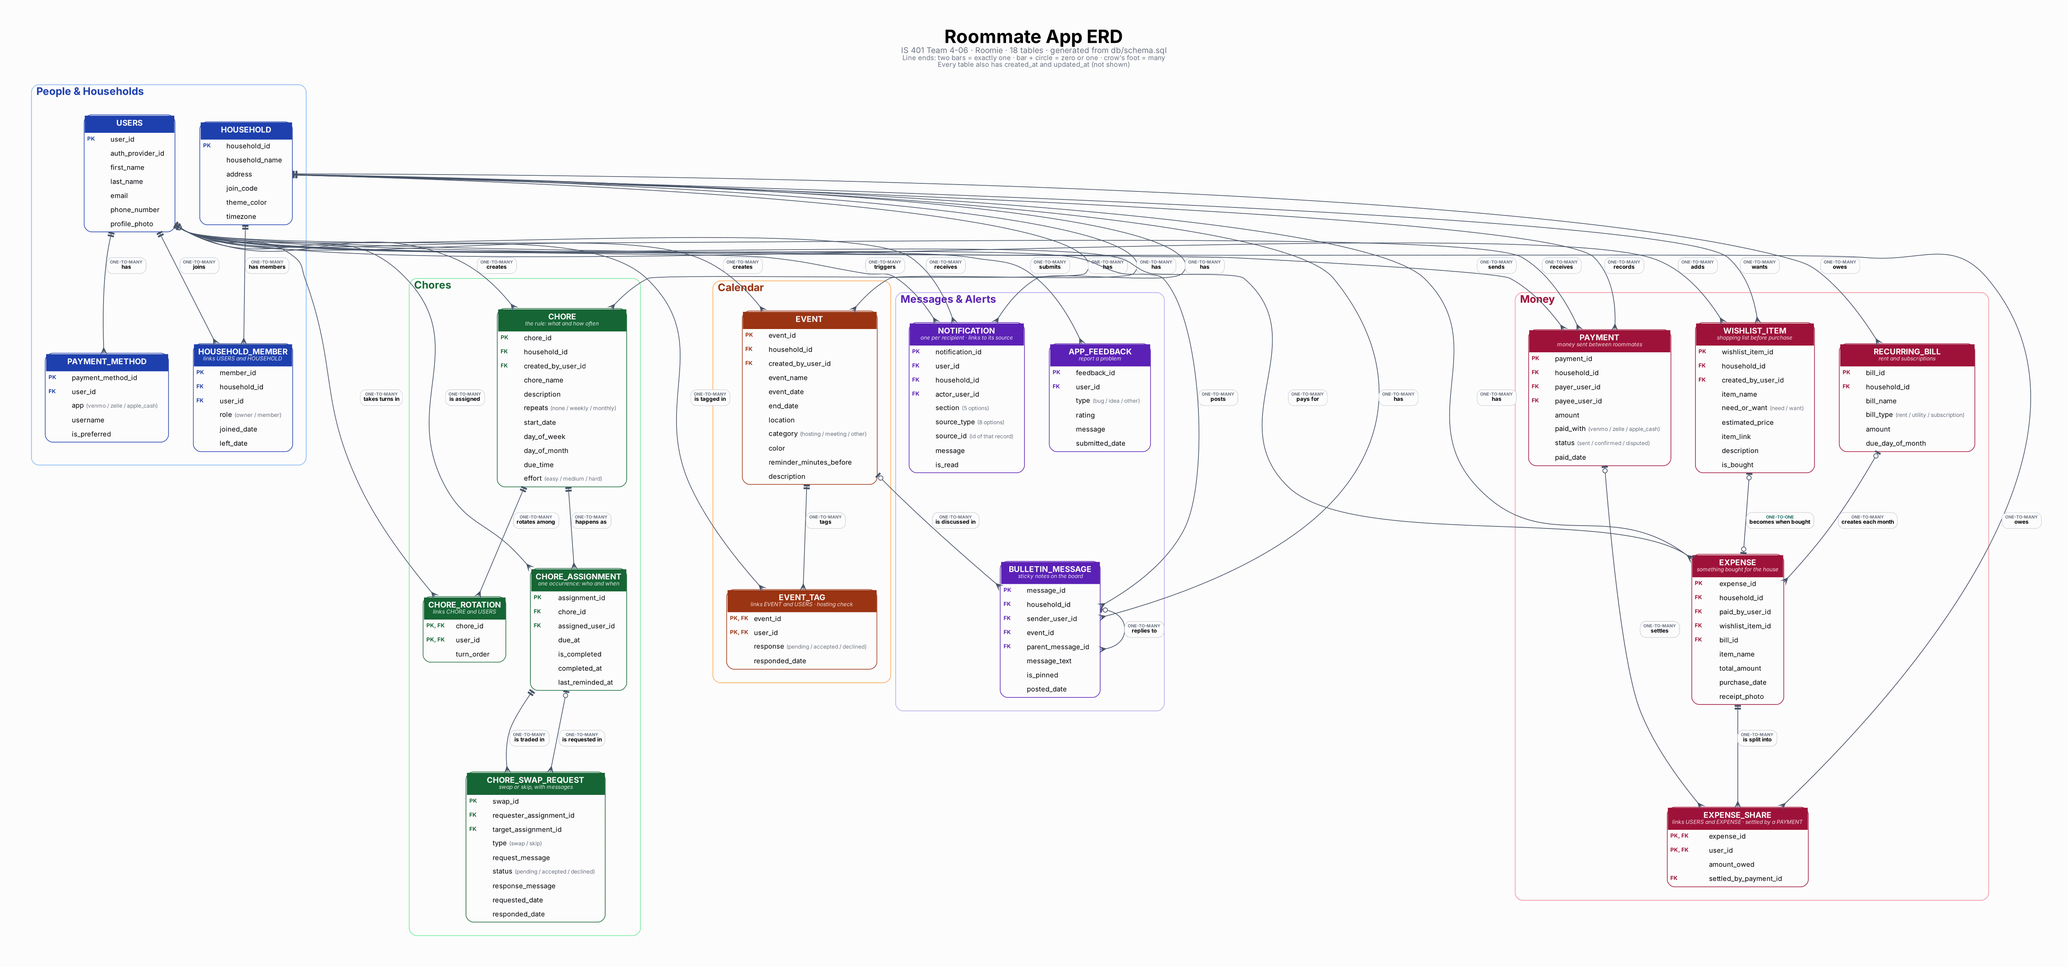
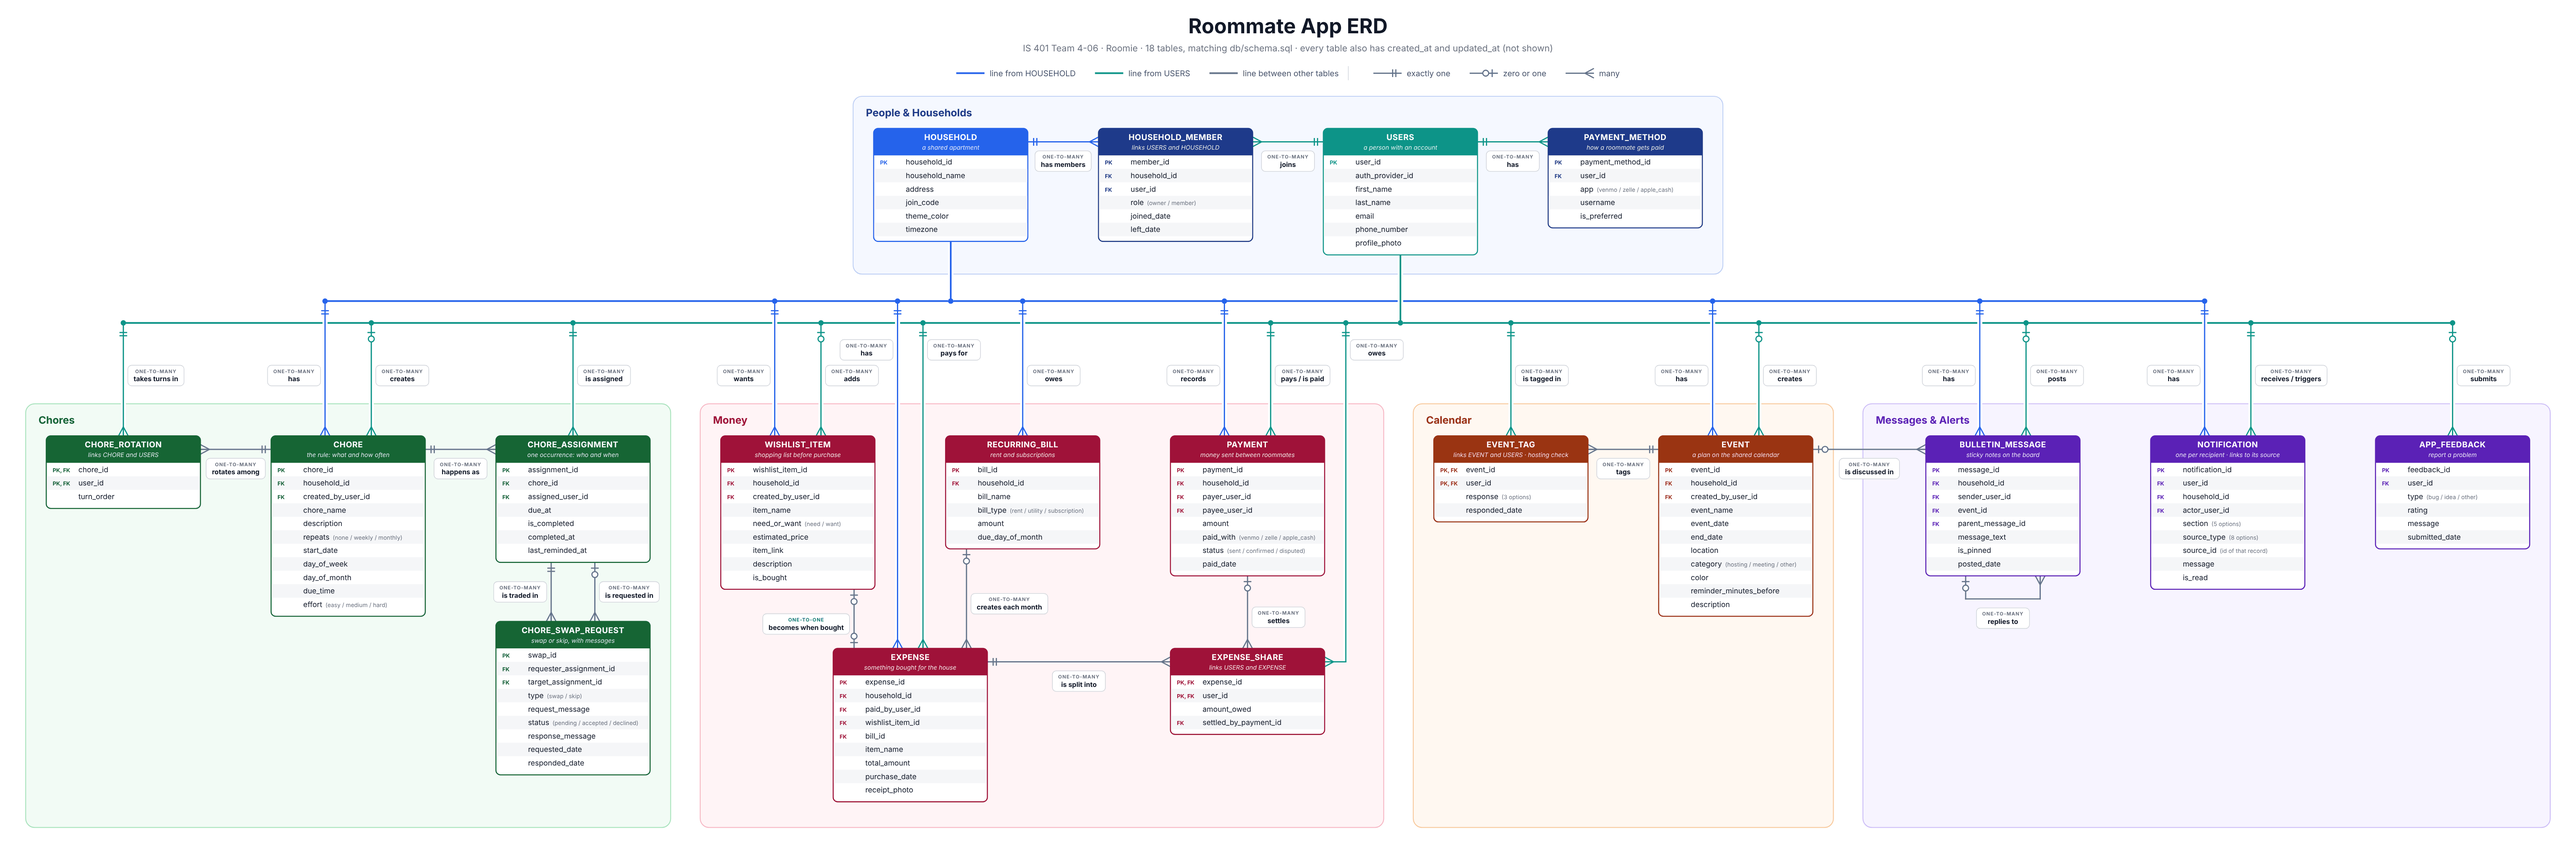
New straight-line ERD at docs/erd.png; rewrite App Summary around the problem

diff --git a/README.md b/README.md
@@ -4,7 +4,7 @@ IS 401 Team 4-06. A shared-house app for roommates: chores, costs, calendar and 
 
 ## App Summary
 
-Living with roommates means a steady stream of small negotiations: whose turn it is to take out the trash, who bought the paper towels, whether anyone minds a few friends coming over on Friday. Today most groups handle this through a group text, a spreadsheet, or memory, so chores get skipped, money gets forgotten, and small resentments build. Roomie is for students and young renters who share a home and want those questions answered in one place instead of scattered across apps. Each household joins with a short code and gets a shared chore chart (one-time or repeating chores, assigned to one person or rotated), with swap and skip requests when life gets in the way. It tracks shared purchases, splits them to the exact cent, and shows who owes whom, with repayment through Venmo, Zelle or Apple Cash confirmed by the person who gets paid. A shared calendar, a sticky-note board for checking in before hosting guests, a shared wish list, and a notification dashboard keep everyone on the same page. The requirements behind these features are in [docs/requirements.csv](docs/requirements.csv).
+College students who move in with new or unrelated roommates rarely sit down and agree on how the house will run. Expectations go unspoken, so everyone assumes someone else will take out the trash, buy the paper towels, or ask before hosting friends. The group text where these things get sorted out is quickly buried under memes and plans, so a request from Tuesday is lost by Thursday. Chores and money then turn into tension, because nobody can see who did what or who owes whom. Roomie gives each household one shared place to fix this: a chore chart with one-time or repeating chores that are assigned or rotated, with swap and skip requests when life gets in the way. It splits shared purchases to the exact cent, shows who owes whom, and lets the person who gets paid confirm repayment through Venmo, Zelle or Apple Cash. A shared calendar, a sticky-note board for checking in before hosting, a wish list and a notification dashboard keep everyone on the same page, and the features come from [docs/requirements.csv](docs/requirements.csv).
 
 ## ERD
 
